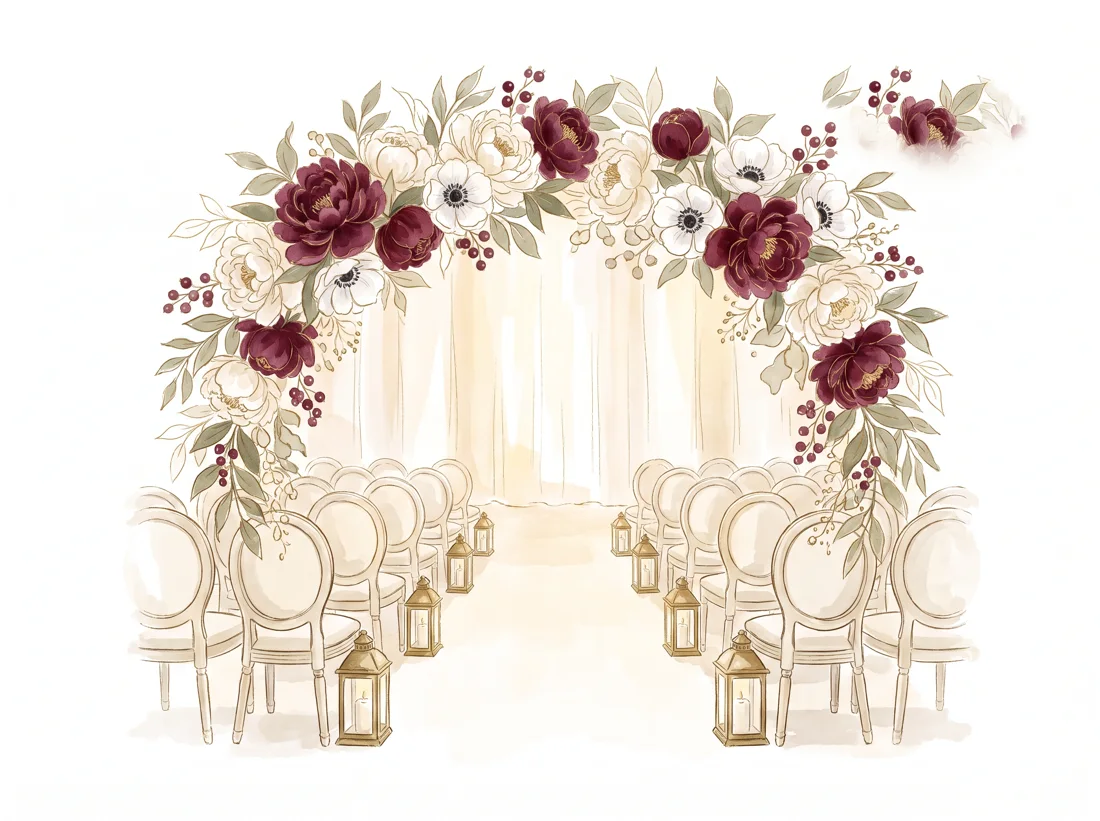
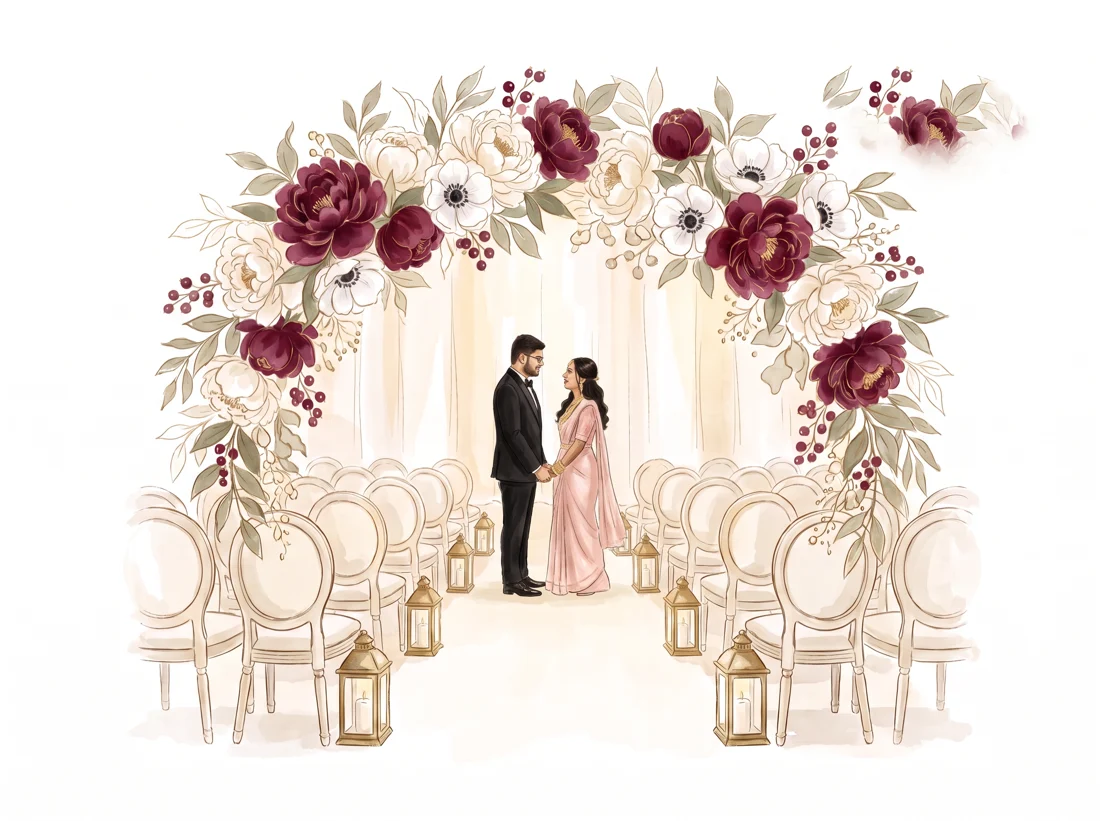
Smaller invite line, Title Case events heading, couple painted into the wedding aisle, clamp music fade volume

diff --git a/index.html b/index.html
@@ -11,7 +11,7 @@
   <link rel="preconnect" href="https://fonts.gstatic.com" crossorigin />
   <link href="https://fonts.googleapis.com/css2?family=Cormorant+Garamond:ital,wght@0,400;0,500;0,600;0,700;1,400;1,500&family=Pinyon+Script&display=swap" rel="stylesheet" />
   <link rel="preload" as="image" href="assets/img/couple_cut.webp" />
-  <link rel="stylesheet" href="css/style.css?v=65" />
+  <link rel="stylesheet" href="css/style.css?v=66" />
 </head>
 <body class="is-locked">
 
@@ -194,7 +194,7 @@
     <!-- ===================== 7–8. WEDDING & RECEPTION ===================== -->
     <section id="events" class="section events-sec">
       <header class="sec-head">
-        <h2 class="sec-title join-title">Join us in the journey of love, faith and togetherness</h2>
+        <h2 class="sec-title join-title">Join Us In The Journey Of Love, Faith And Togetherness</h2>
         <div class="divider"><span></span><svg class="heart"><use href="#heart" /></svg><span></span></div>
       </header>
       <div class="events" id="eventsList"></div>
@@ -272,8 +272,8 @@
 
   <script src="https://cdn.jsdelivr.net/npm/gsap@3.12.5/dist/gsap.min.js"></script>
   <script src="https://cdn.jsdelivr.net/npm/gsap@3.12.5/dist/ScrollTrigger.min.js"></script>
-  <script src="js/config.js?v=65"></script>
-  <script src="js/petals.js?v=65"></script>
-  <script src="js/main.js?v=65"></script>
+  <script src="js/config.js?v=66"></script>
+  <script src="js/petals.js?v=66"></script>
+  <script src="js/main.js?v=66"></script>
 </body>
 </html>

diff --git a/css/style.css b/css/style.css
@@ -221,7 +221,7 @@ p { margin: 0; }
 .invite { max-width: 940px; margin: 0 auto; }
 .invite .pc-face { text-align: center; padding: clamp(3.6rem, 7vw, 4.6rem) clamp(1.6rem, 6vw, 4.5rem) clamp(2.6rem, 5vw, 3.4rem); color: var(--bronze); }
 .pc-bow { position: absolute; left: 50%; top: -34px; width: 96px; height: 72px; margin-left: -48px; fill: url(#gold); filter: drop-shadow(0 4px 4px rgba(110,90,50,.35)); z-index: 3; transform-origin: 50% 40%; }
-.card-intro { font-weight: 600; font-size: clamp(.82rem, 1.9vw, .95rem); letter-spacing: .16em; text-transform: uppercase; line-height: 1.8; color: var(--bronze); }
+.card-intro { font-weight: 600; font-size: clamp(.66rem, 1.5vw, .8rem); letter-spacing: .14em; text-transform: uppercase; line-height: 1.8; color: var(--bronze); }
 .pair { display: grid; grid-template-columns: 1fr auto 1fr; align-items: center; gap: 1.5rem; margin: 2rem 0 1.8rem; }
 .p-name { font-family: var(--script); color: var(--bronze); font-size: clamp(3rem, 6.5vw, 4.4rem); line-height: 1.15; }
 .p-par { margin-top: .45rem; font-weight: 600; font-size: clamp(.8rem, 1.7vw, .92rem); letter-spacing: .1em; text-transform: uppercase; line-height: 1.7; color: var(--bronze); }

diff --git a/js/main.js b/js/main.js
@@ -57,7 +57,7 @@
   const song = $("#song"), musicBtn = $("#musicBtn");
   let opened = false, songOk = true;
   song.addEventListener("error", () => { songOk = false; musicBtn.hidden = true; });
-  function fadeTo(v, ms) { const f0 = song.volume, t0 = performance.now(); (function f(t) { const k = Math.min(1, (t - t0) / ms); song.volume = f0 + (v - f0) * k; if (k < 1) requestAnimationFrame(f); })(t0); }
+  function fadeTo(v, ms) { const f0 = song.volume, t0 = performance.now(); (function f(t) { const k = Math.min(1, (t - t0) / ms); song.volume = Math.min(1, Math.max(0, f0 + (v - f0) * k)); if (k < 1) requestAnimationFrame(f); })(t0); }
   function startMusic() {
     if (!songOk) return;
     musicBtn.hidden = false;
